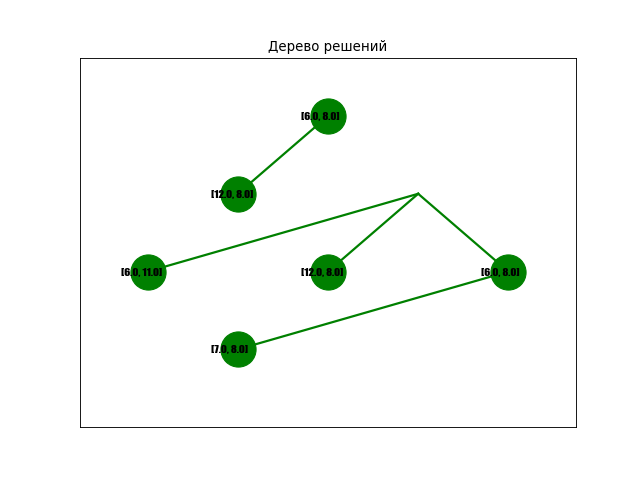
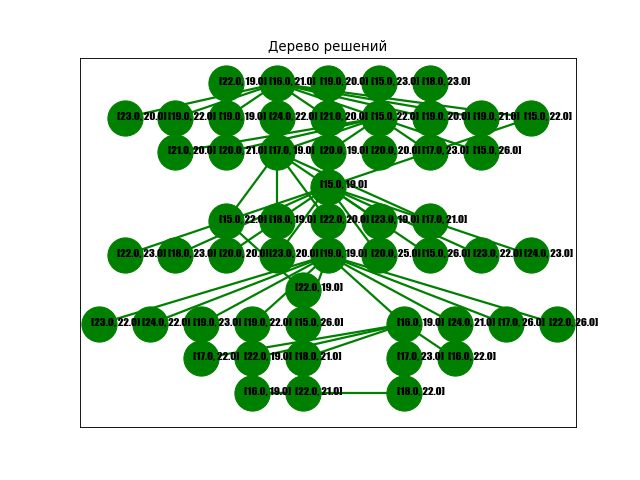
Added task-node table. Minor fixes. Program released

Changed region(s): [[0.125, 0.125, 0.9375, 0.875]]

diff --git a/UI.py b/UI.py
@@ -14,6 +14,7 @@ def del_all_obj():
         frame_C_second_rebase.destroy()
         frame_T_second_rebase.destroy()
         dec_tree_graph.destroy()
+        frame_nodes.destroy()
     except:
         print("Удаление невозможно")
 
@@ -66,7 +67,12 @@ def set_matrix(set_random=False):
 
 
 def matrix_transformation():
-    """Произваодит вывод преобразованных матриц"""
+    """Производит вывод преобразованных матриц"""
+    try:
+        time_limit = float(str(time_limit_widget.get()))  # ограничение по времени
+    except:
+        messagebox.showerror(title="Ошибка ввода", 
+            message="Значение ограничения по времени должно быть вещественным.")
     global C_matrix_value, T_matrix_value
     C_matrix_value = []; T_matrix_value = []
     for i in range(len(C_matrix)):
@@ -129,19 +135,33 @@ def matrix_transformation():
 
 
 def decision_tree_graph():
-    """Выводит график дерева решений в окно приложения"""
+    """Выводит график дерева решений в окно приложения, а так же узлы решения для задач"""
     if frame_T_second_rebase.winfo_exists() != 1:
         messagebox.showerror(title="Ошибка!", message="Сначала задайте матрицы")
         return
-    dec_tree = decision_tree(C2, T2)     
-    graph_dec_tree(dec_tree)
+    try:
+        dec_tree, nodes = decision_tree(C2, T2)
+        graph_dec_tree(dec_tree)
+    except:
+        messagebox.showerror(title="Ошибка построения", 
+                    message="Попробуйте увеличить ограничение по времени и снова нажмите преобразовать матрицы")
+        return
 
     global dec_tree_graph
     img = PhotoImage(file="decision_tree.png")
     dec_tree_graph = Label(root, image=img)
     dec_tree_graph.image_ref = img
     dec_tree_graph.place(x=800, y=0)
-            
+    
+    # Узлы решений
+    global frame_nodes
+    frame_nodes = tk.Frame(root, width=50+20*len(nodes), height=40)#, background="#b22222")
+    frame_nodes.place(x=850, y=500)
+    ttk.Label(frame_nodes, text="Задачи").place(x=0, y=0)
+    ttk.Label(frame_nodes, text="Узлы").place(x=0, y=20)
+    for i in range(len(nodes)):
+        ttk.Label(frame_nodes, text=i+1, width=3).place(x=50+20*i, y=0)
+        ttk.Label(frame_nodes, text=nodes[i], width=3).place(x=50+20*i, y=20)
 
 
 
@@ -160,9 +180,9 @@ matrix_row = tk.Entry(frm); matrix_row.grid(column=1, row=0)
 matrix_column = tk.Entry(frm); matrix_column.grid(column=1, row=1)
 time_limit_widget = tk.Entry(frm); time_limit_widget.grid(column=1, row=2)
 
-tk.Button(root, text="Задать матрицу", command=set_matrix, width=35).place(x=370, y=10)
-tk.Button(root, text="Задать матрицу со случайными числами", command=lambda: set_matrix(set_random=True), width=35).place(x=370, y=35)
-tk.Button(root, text="Преобразовать матрицы", command=matrix_transformation, width=35).place(x=370, y=60)
-tk.Button(root, text="Построить дерево решений", command=decision_tree_graph, width=35).place(x=370, y=85)
+tk.Button(root, text="Задать матрицы", command=set_matrix, width=45).place(x=370, y=10)
+tk.Button(root, text="Задать матрицы со случайными числами", command=lambda: set_matrix(set_random=True), width=45).place(x=370, y=35)
+tk.Button(root, text="Преобразовать матрицы", command=matrix_transformation, width=45).place(x=370, y=60)
+tk.Button(root, text="Построить дерево решений и таблицу задача-узел", command=decision_tree_graph, width=45).place(x=370, y=85)
 root.mainloop()
 

diff --git a/backend.py b/backend.py
@@ -19,7 +19,11 @@ def minimum(l):
   str_l = str_l.replace("'-',", '')
   str_l = str_l.replace("'-'", '')
   new_list = eval(str_l)
-  return min(new_list)
+  try:
+    min_ = min(new_list)
+  except:
+    return False
+  return min_
 
 
 
@@ -41,26 +45,37 @@ def second_rebase(C, T, Tz):
 
 
 def decision_tree(C, T):
-  """Построение дерева решений
+  """Возвращает дерево решений и узлы в списке, нумерация в списке от нуля, задачи начинаются от единицы
   Складываются элемент из строки и минимальные элементы всех остальных строк
   Входные данные:
   C - матрица "стоимости"
   T - матрица "времени"
   """
   dec_tree = list()
+  nodes = []   # узлы. Для i-й элемент = i+1 задача и её узел решения
   for i in range(len(C)):
+    min_node = float(); first_pass = True
     temp_tree = list()  # один слой дерева
+    temp_node = int()
     for j in range(len(C[i])):
       Csumm = 0; Tsumm = 0
       if C[i][j] == '-':  # если элемента нет, то соответсвенно пропускаем
         continue
       Csumm = C[i][j]; Tsumm = T[i][j]
       for r in range(len(C)):
-        if r != i:
+        if r != i and minimum(C[r]) != False:
           Csumm += minimum(C[r]); Tsumm += minimum(T[r])
+      if first_pass:
+        temp_node = j
+        min_node = Csumm + Tsumm
+        first_pass = False
+      elif min_node > Csumm + Tsumm:
+        temp_node = j
+        min_node = Csumm + Tsumm
       temp_tree.append([Csumm, Tsumm])
+    nodes.append(temp_node+1) # +1 т.к. номер задачи начинается от 1, а не от нуля
     dec_tree.append(temp_tree)
-  return dec_tree
+  return dec_tree, nodes
 
 def graph_dec_tree(dec_tree):
   """Функция сохраняет график дерева решений в файл decision_tree.png
@@ -89,15 +104,14 @@ def graph_dec_tree(dec_tree):
       len_layer = len(dec_tree[i])
       coord_line_end.append([])
       for j, x in zip(range(len_layer), range(-len_layer, len_layer+1, 2)):
+          if len_layer % 2 == 0 and x == 0: continue
           if optimal[i] == dec_tree[i][j]:
               opt_coord_line.append([x, y])
-          if len_layer % 2 == 0 and x == 0: continue
           plt.scatter(x, y, color='green', s=1000, marker='o')
           if left_x > x: left_x = x
           if right_x < x: right_x = x
           coord_line_end[i].append([x,y])
           plt.text(x-0.3, y-0.1, dec_tree[i][j], fontdict=font)
-
   for i in range(len_tree-1): # рисуем линии
       for j in range(len(coord_line_end[i+1])):
           x1, y1, x2, y2 =  opt_coord_line[i] + coord_line_end[i+1][j]
@@ -127,7 +141,7 @@ if __name__ == "__main__":
 
     C1, T1 = rebase_matrix(C0, T0)  # матрицы после первого преобразования
     C2, T2 = second_rebase(C1, T1, Tz0) # матрицы после второго преобразования
-    dec_tree = decision_tree(C2, T2)
+    dec_tree, nodes = decision_tree(C2, T2)
 
     print("Преобразованная матрица C:")
     for i in range(len(C2)):
@@ -142,3 +156,5 @@ if __name__ == "__main__":
     print("Дерево решений:")
     for decision in dec_tree:
         print(str(decision).center(40))
+    
+    print(nodes)
